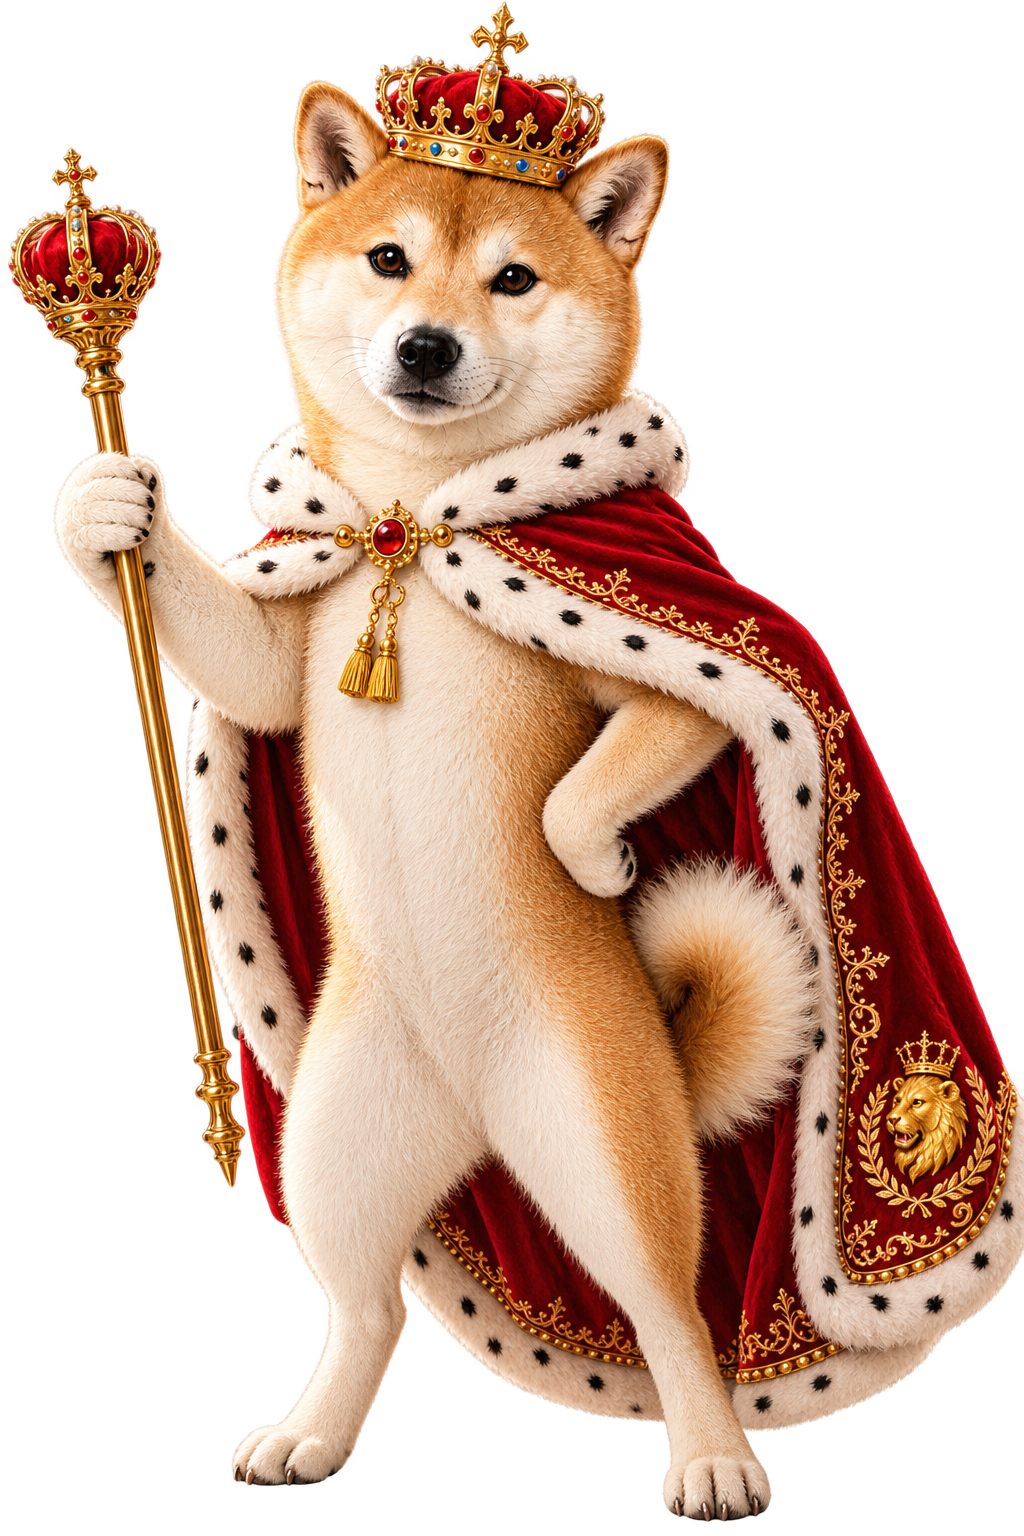
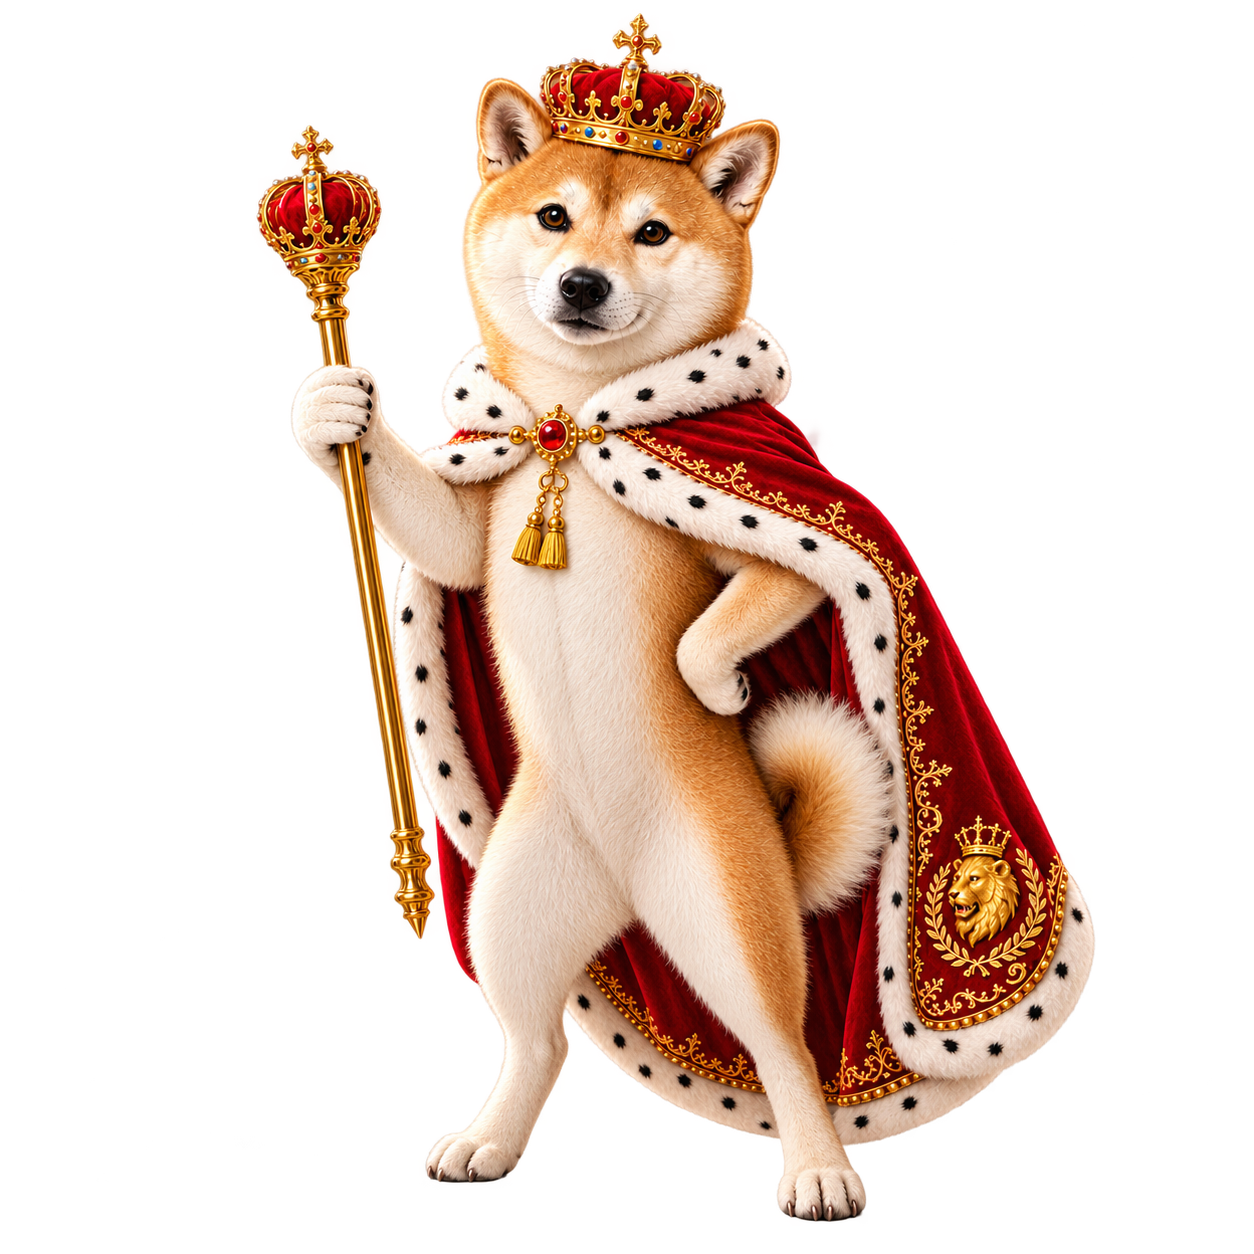
feat: 12犬種の画像を追加しTOP画面の表示を調整

diff --git a/frontend/src/utils/dogImages.ts b/frontend/src/utils/dogImages.ts
@@ -3,34 +3,44 @@ import huskyImg from '../assets/dog-cutouts/husky.png'
 import pomeranianImg from '../assets/dog-cutouts/pomeranian.png'
 import toypoodleImg from '../assets/dog-cutouts/toypoodle.png'
 import goldenImg from '../assets/dog-cutouts/golden.png'
+import chihuahuaImg from '../assets/dog-cutouts/chihuahua.png'
+import frenchbullImg from '../assets/dog-cutouts/frenchbulldog.png'
+import bordercollieImg from '../assets/dog-cutouts/bordercollie.png'
+import beagleImg from '../assets/dog-cutouts/beagle.png'
+import germanshepherdImg from '../assets/dog-cutouts/germanshepherd.png'
+import dobermanImg from '../assets/dog-cutouts/doberman.png'
+import samoyedImg from '../assets/dog-cutouts/samoyed.png'
 
 export interface DogPreview {
   code: string
   name: string
   image: string
+  // TOP画面の一覧表示でのみ使う見た目上の縮小率。画像データ上の
+  // 縦占有率は12犬種でほぼ揃っているが、衣装や体格によって人の目には
+  // 大きさが違って見えることがあるため、その見た目補正専用の値。
+  // 未指定は1.0(補正なし)として扱う。ResultScreen/ResultCardには適用しない
+  topScale?: number
 }
 
 // TOP画面・結果画面(通常/保存用)で共通利用する犬画像データ。
-// 12犬種のうち、画像アセット(frontend/src/assets/dog-cutouts/*.png)が
-// 用意できている犬種のみを列挙する。未用意の犬種は、対応する透過PNGが
-// 揃い次第ここに追記する(必要なファイル名はコメントを参照)。
+// 小型犬4種・中型犬4種・大型犬4種の順で12犬種すべてを列挙する
+// (サイズ区分は表示順を決めるためだけの分類で、データ項目としては持たない)
 export const DOG_PREVIEWS: DogPreview[] = [
   { code: 'POMERANIAN', name: 'ポメラニアン', image: pomeranianImg },
   { code: 'TOYPOODLE', name: 'トイプードル', image: toypoodleImg },
-  // { code: 'CHIHUAHUA', name: 'チワワ', image: 要 assets/dog-cutouts/chihuahua.png }
-  // { code: 'FRENCHBULL', name: 'フレンチブルドッグ', image: 要 assets/dog-cutouts/frenchbulldog.png }
+  { code: 'CHIHUAHUA', name: 'チワワ', image: chihuahuaImg },
+  { code: 'FRENCHBULL', name: 'フレンチブルドッグ', image: frenchbullImg, topScale: 0.86 },
   { code: 'SHIBA', name: '柴犬', image: shibaImg },
   { code: 'HUSKY', name: 'ハスキー', image: huskyImg },
-  // { code: 'BORDERCOLLIE', name: 'ボーダーコリー', image: 要 assets/dog-cutouts/bordercollie.png }
-  // { code: 'BEAGLE', name: 'ビーグル', image: 要 assets/dog-cutouts/beagle.png }
+  { code: 'BORDERCOLLIE', name: 'ボーダーコリー', image: bordercollieImg },
+  { code: 'BEAGLE', name: 'ビーグル', image: beagleImg },
   { code: 'GOLDEN', name: 'ゴールデンレトリバー', image: goldenImg },
-  // { code: 'GERMANSHEPHERD', name: 'ジャーマンシェパード', image: 要 assets/dog-cutouts/germanshepherd.png }
-  // { code: 'DOBERMAN', name: 'ドーベルマン', image: 要 assets/dog-cutouts/doberman.png }
-  // { code: 'SAMOYED', name: 'サモエド', image: 要 assets/dog-cutouts/samoyed.png }
+  { code: 'GERMANSHEPHERD', name: 'ジャーマンシェパード', image: germanshepherdImg },
+  { code: 'DOBERMAN', name: 'ドーベルマン', image: dobermanImg },
+  { code: 'SAMOYED', name: 'サモエド', image: samoyedImg },
 ]
 
-// dogType.codeから画像を引く。画像未用意の犬種はundefinedを返し、
-// 呼び出し側の `{dogImage && <img ... />}` により画像なしで表示される
+// dogType.codeから画像を引く
 export const DOG_IMAGES: Record<string, string> = Object.fromEntries(
   DOG_PREVIEWS.map((dog) => [dog.code, dog.image]),
 )

diff --git a/frontend/src/screens/TopScreen.module.css b/frontend/src/screens/TopScreen.module.css
@@ -88,12 +88,33 @@
   transform: translateY(-12px);
 }
 
-.dogImage {
-  height: 300px;
-  width: auto;
-  max-width: 100%;
-  object-fit: contain;
+/* 正方形の表示枠に統一することで、犬種ごとの画像アスペクト比や
+   透過余白の違いに関わらず見た目の大きさをほぼ揃えている。
+   画像データ上の縦占有率は12犬種でほぼ揃っているが、衣装の
+   ボリュームや体格によって人の目には大きさが違って見えるケースがあり、
+   その分はdog.topScale(dogImages.ts)によるtransform:scale補正で
+   個別に微調整する(枠自体のサイズ・ラベル位置には影響しない) */
+.dogImageWrap {
+  width: 100%;
+  aspect-ratio: 1 / 1;
+  display: flex;
+  align-items: center;
+  justify-content: center;
   margin-bottom: 12px;
+}
+
+.dogImage {
+  width: 100%;
+  height: 100%;
+  /* flexアイテムのデフォルトmin-height/min-widthは'auto'で、置換要素は
+     自身のアスペクト比から自動最小サイズが決まる。画像が正方形でない
+     場合、この自動最小サイズが正方形の.dogImageWrapより大きくなり、
+     wrap自体を押し広げてラベル位置がずれる原因になり得るため、
+     0にリセットしてwidth/height:100%を確実に効かせる */
+  min-width: 0;
+  min-height: 0;
+  object-fit: contain;
+  transform-origin: center;
   filter: drop-shadow(0 12px 18px rgba(0, 0, 0, 0.18));
 }
 
@@ -124,10 +145,6 @@
   .dogRow {
     grid-template-columns: repeat(2, minmax(0, 1fr));
     max-width: 480px;
-  }
-
-  .dogImage {
-    height: 220px;
   }
 
   .dogSection {

diff --git a/frontend/src/screens/TopScreen.tsx b/frontend/src/screens/TopScreen.tsx
@@ -1,10 +1,15 @@
 import styles from './TopScreen.module.css'
 import buttonStyles from '../styles/Button.module.css'
-import { DOG_PREVIEWS } from '../utils/dogImages'
+import { DOG_PREVIEWS, type DogPreview } from '../utils/dogImages'
 
 interface Props {
   onStart: () => void
   disabled: boolean
+}
+
+// topScale(縮小率)からTOP画面用のtransformを組み立てる
+function dogImageTransform(dog: DogPreview) {
+  return dog.topScale ? `scale(${dog.topScale})` : undefined
 }
 
 function TopScreen({ onStart, disabled }: Props) {
@@ -20,11 +25,14 @@ function TopScreen({ onStart, disabled }: Props) {
         <div className={styles.dogRow}>
           {DOG_PREVIEWS.map((dog) => (
             <div key={dog.name} className={styles.dogCard}>
-              <img
-                src={dog.image}
-                alt={dog.name}
-                className={styles.dogImage}
-              />
+              <div className={styles.dogImageWrap}>
+                <img
+                  src={dog.image}
+                  alt={dog.name}
+                  className={styles.dogImage}
+                  style={{ transform: dogImageTransform(dog) }}
+                />
+              </div>
               <p className={styles.dogName}>{dog.name}</p>
             </div>
           ))}
